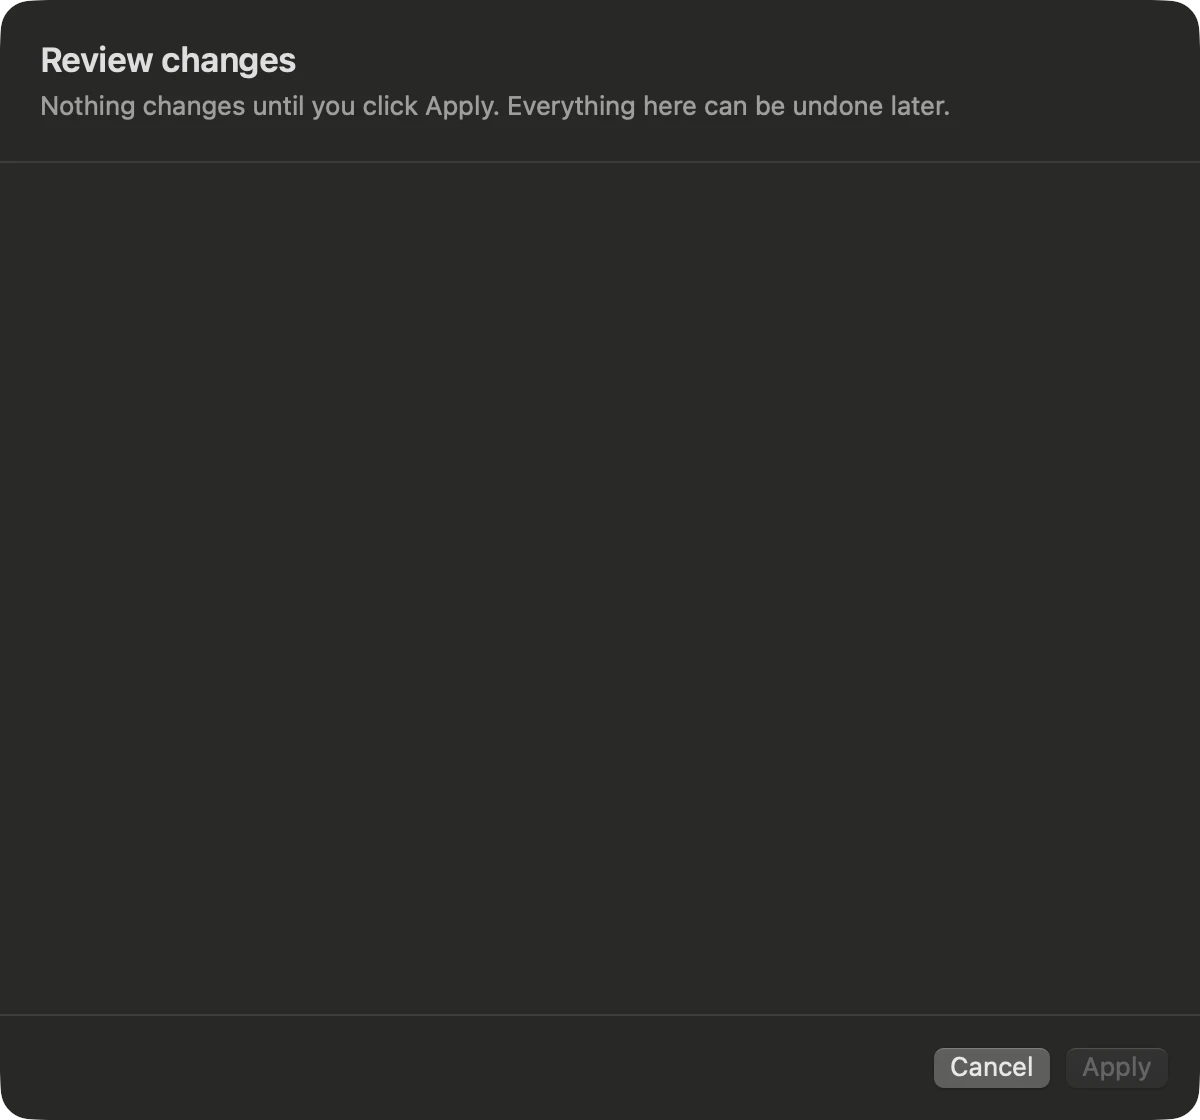
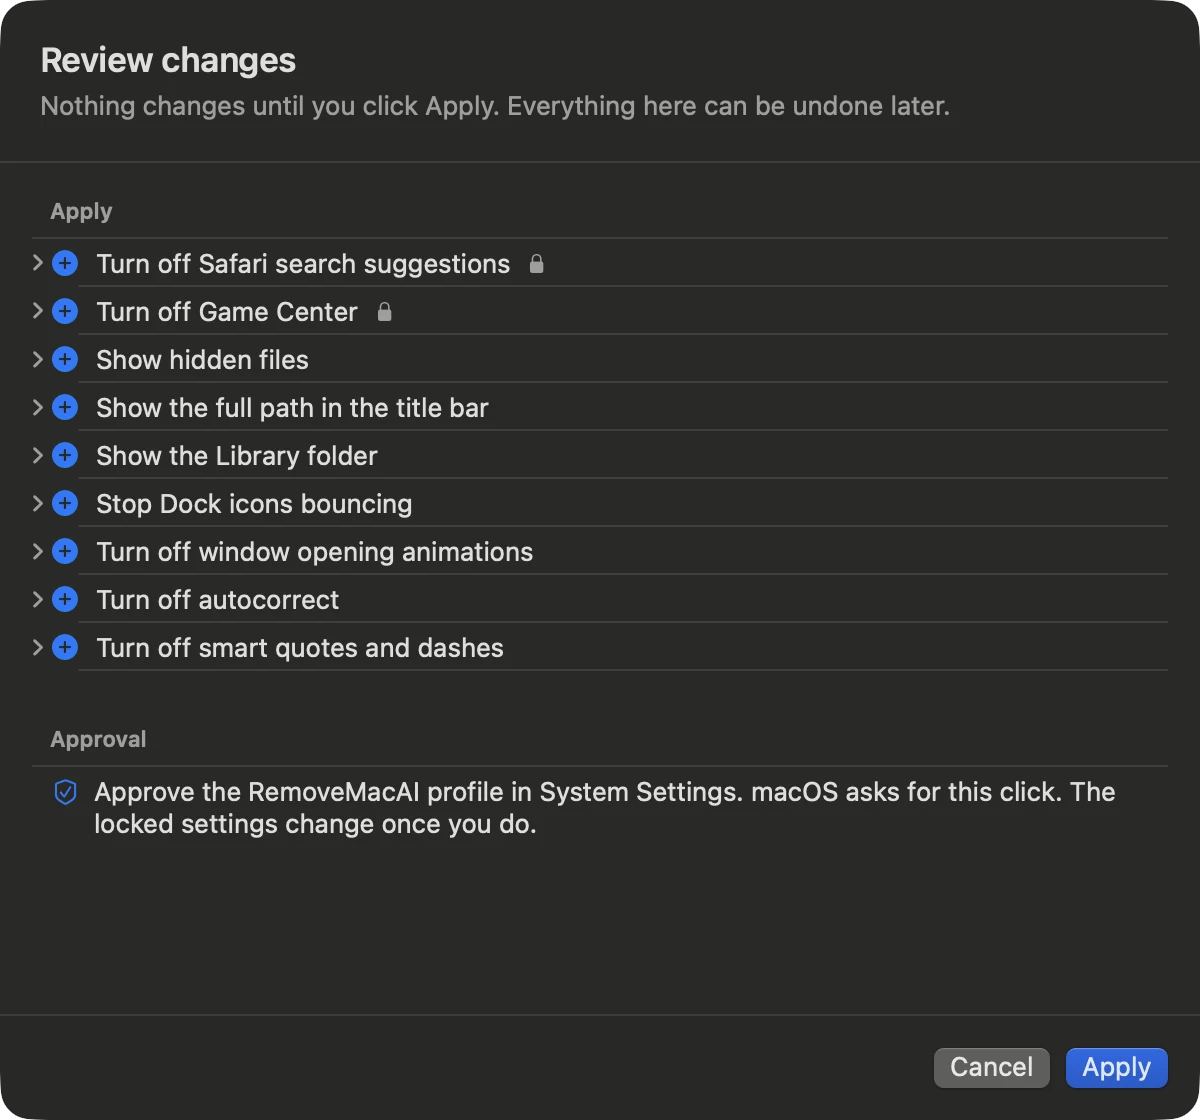
Update screenshots

Changed region(s): [[0.0308, 0.1875, 0.4625, 0.5938], [0.0308, 0.6562, 0.925, 0.75], [0.8633, 0.9375, 0.9867, 1.0]]

diff --git a/Sources/removemacai/App/Snapshots.swift b/Sources/removemacai/App/Snapshots.swift
@@ -25,7 +25,11 @@
         }
         if ProcessInfo.processInfo.environment["REMOVEMACAI_SNAPSHOTS_REVIEW"] != nil {
           model.page = .overview
-          model.choose(.recommended)
+          model.choose(.privacy)
+          // Tweaks to show as pending, so the review sheet has something to list on a debloated Mac.
+          for id in (ProcessInfo.processInfo.environment["REMOVEMACAI_SNAPSHOTS_PENDING"] ?? "").split(separator: ",") {
+            if let t = Tweaks.tweak(String(id)) { model.toggle(t, true) }
+          }
           try? await Task.sleep(nanoseconds: 800_000_000)
           save("pending", dir)
           model.reviewing = true
